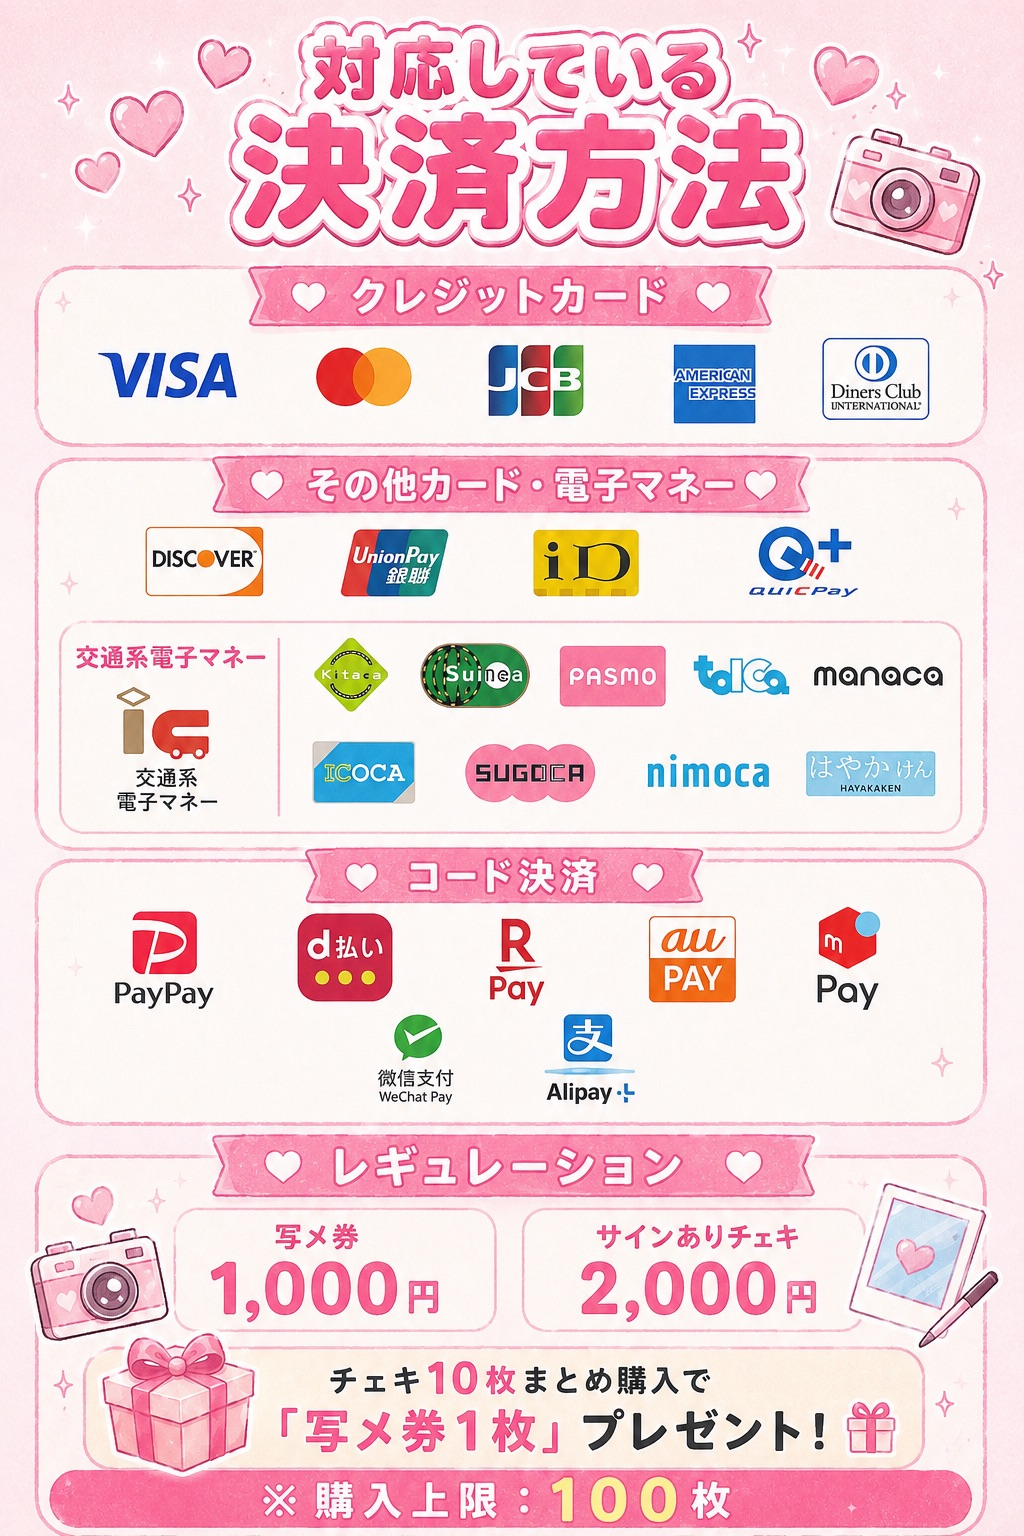
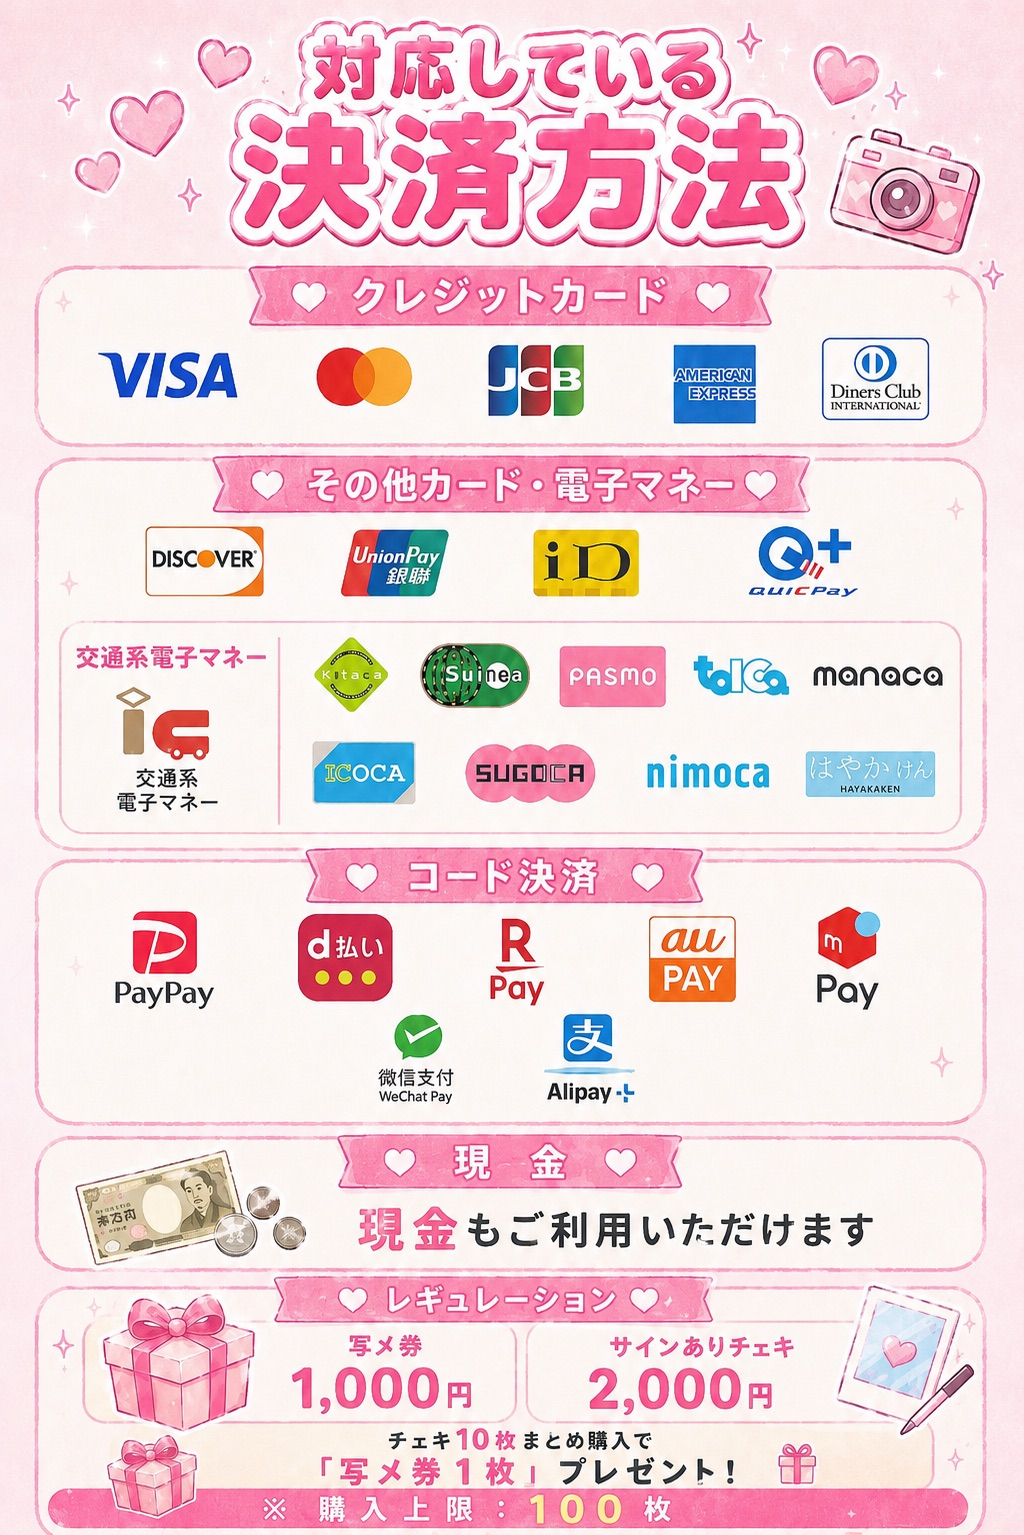
1.支払決済修正 2.猫音なたん 消す

diff --git a/script.js b/script.js
@@ -103,22 +103,6 @@ document.addEventListener('DOMContentLoaded', () => {
             }
         },
         {
-            id: "natan",
-            name: "猫音なたん",
-            romaji: "NYAON NATAN",
-            color: "ピンク",
-            birthday: "7月7日",
-            hobby: "競艇、競馬、YouTube、猫と遊ぶ🐱💖",
-            skill: "作詞作編曲🎶",
-            comment: "応援してくれるみんなを誰よりも幸せにして、この大好きなグループをさらに大きくすることが夢です！\nこれからもっともっと成長して、絶対にみんなを大きなステージへ連れて行きます。\n一緒に最高の景色を見ようね💖",
-            image: "素材/natan.jpg",
-            sns: {
-                x: "https://x.com/natan_koimitu",
-                instagram: "https://instagram.com/nyaon_natan",
-                tiktok: "https://tiktok.com/@nyaon_natan"
-            }
-        },
-        {
             id: "rika",
             name: "叶成りか",
             romaji: "KANARI RIKA",

diff --git a/index.html b/index.html
@@ -18,7 +18,7 @@
     <link rel="stylesheet" href="https://cdnjs.cloudflare.com/ajax/libs/font-awesome/6.5.2/css/all.min.css">
 
     <!-- CSS -->
-    <link rel="stylesheet" href="style.css?v=2">
+    <link rel="stylesheet" href="style.css?v=6">
 </head>
 
 <body>
@@ -339,6 +339,13 @@
                     <img src="素材/決済方法.jpg" alt="決済方法・レギュレーション" style="width: 100%; border-radius: 8px;">
                 </div>
                 
+                <div class="rule-block">
+                    <h4>【現金】</h4>
+                    <ul>
+                        <li>・現金もご利用いただけます</li>
+                    </ul>
+                </div>
+
                 <div class="rule-block">
                     <h4>【クレジットカード】</h4>
                     <ul>

diff --git a/style.css b/style.css
@@ -365,8 +365,9 @@ h1, h2, h3, h4, h5, h6 {
 
 .profile-card {
     cursor: pointer;
-    width: 250px;
-    flex: 0 1 250px;
+    width: calc(25% - 30px);
+    flex: 0 1 calc(25% - 30px);
+    min-width: 200px;
 }
 
 .profile-img-wrap {
